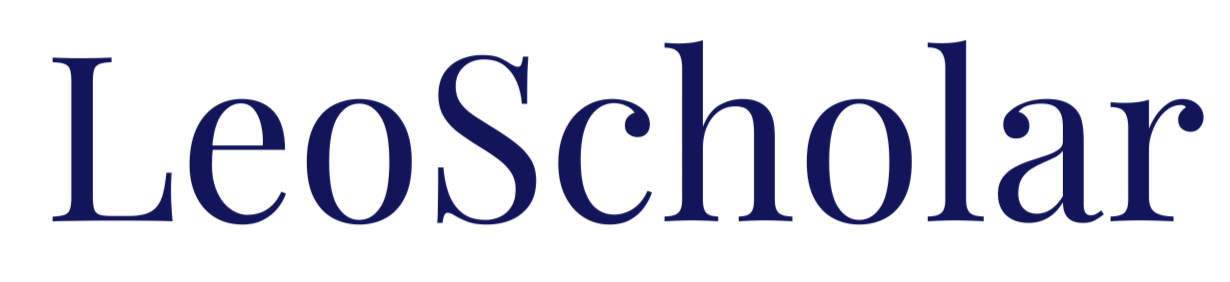
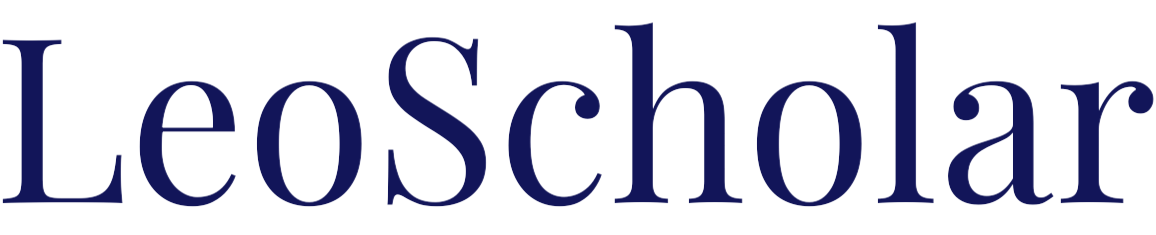
add style for header

Changed region(s): [[0.0, 0.0894, 1.0, 0.8936]]

diff --git a/styles.css b/styles.css
@@ -35,7 +35,7 @@ body {
 /* Add hover effect for non-profile links */
 .nav-links a:not(.profile-link):not(.dropdown-content a):hover {
   text-decoration: underline; /* Underline on hover */
-  color: #333; /* Optional: change color on hover for better visibility */
+  color: #333;
 }
 
 .nav-links a.active-page {
@@ -62,7 +62,7 @@ body {
   left: 0;
   background-color: #fff; /* Background color for dropdown */
   border-radius: 5px; /* Rounded corners */
-  box-shadow: 0 2px 5px rgba(0, 0, 0, 0.1); /* Small shadow */
+  box-shadow: 0 2px 5px rgba(0, 0, 0, 0.2); /* Small shadow */
   z-index: 1; /* Ensure dropdown appears above other content */
 }
 
@@ -90,18 +90,28 @@ body {
 .header {
   background-image: url("img/ui/home-page-bg.png"); /* Add your header image here */
   background-size: cover;
-  padding: 60px;
+  background-position: center; /* Center the background image */
+  padding: 60px 60px 60px 100px; /* Top, right, bottom, left */
   color: white; /* Text color */
   text-align: left;
+  min-height: 500px;
+  display: flex; /* Use flexbox for alignment */
+  align-items: center; /* Center items vertically */
 }
 
 .header h2 {
   font-size: 36px;
-  margin: 0;
+  color: black;
+  margin: 0 0 30px 0;
+}
+
+.header p {
+  color: #11155e;
+  margin: 5px 0 50px 0;
 }
 
 .header img {
-  height: 80px; /* Logo size */
+  height: 90px; /* Logo size */
 }
 
 .search-bar {
@@ -115,15 +125,20 @@ body {
   padding: 10px;
   border: 1px solid #ccc;
   border-radius: 5px;
-  margin-right: 10px; /* Space between input/select and button */
+  margin-right: 0px; /* Space between input and select */
+}
+
+.search-bar input {
+  margin-right: 30px; /* Space between input and button */
+  width: 400px;
 }
 
 .submit-button {
   background-color: #ee3124; /* Background color */
   border: none;
   border-radius: 50%; /* Makes the button circular */
-  width: 40px; /* Width of the button */
-  height: 40px; /* Height of the button */
+  width: 40px;
+  height: 40px;
   display: flex;
   align-items: center;
   justify-content: center;

diff --git a/homepage-member.html b/homepage-member.html
@@ -35,23 +35,25 @@
 
     <!-- Header -->
     <header class="header">
-      <h2>Welcome to</h2>
-      <img src="img/ui/leoscholar-transparent.png" alt="Logo" />
-      <p>A Digital Library for a Knowledgeable Singapore</p>
+      <div>
+        <h2>Welcome to</h2>
+        <img src="img/ui/leoscholar-transparent.png" alt="Logo" />
+        <p>A Digital Library for a Knowledgeable Singapore</p>
 
-      <form class="search-bar" action="" method="POST">
-        <select name="searchType">
-          <option value="all">All</option>
-          <option value="title">Title</option>
-          <option value="author">Author</option>
-          <option value="category">Category</option>
-          <option value="isbn">ISBN</option>
-        </select>
-        <input type="text" name="searchQuery" placeholder="Search..." />
-        <button type="submit" class="submit-button">
-          <img src="img/ui/search.png" alt="Search Icon" />
-        </button>
-      </form>
+        <form class="search-bar" action="" method="POST">
+          <select name="searchType">
+            <option value="all">All</option>
+            <option value="title">Title</option>
+            <option value="author">Author</option>
+            <option value="category">Category</option>
+            <option value="isbn">ISBN</option>
+          </select>
+          <input type="text" name="searchQuery" placeholder="Search..." />
+          <button type="submit" class="submit-button">
+            <img src="img/ui/small-search-icon.png" alt="Search Icon" />
+          </button>
+        </form>
+      </div>
     </header>
 
     <!-- What would you like to do today section -->
